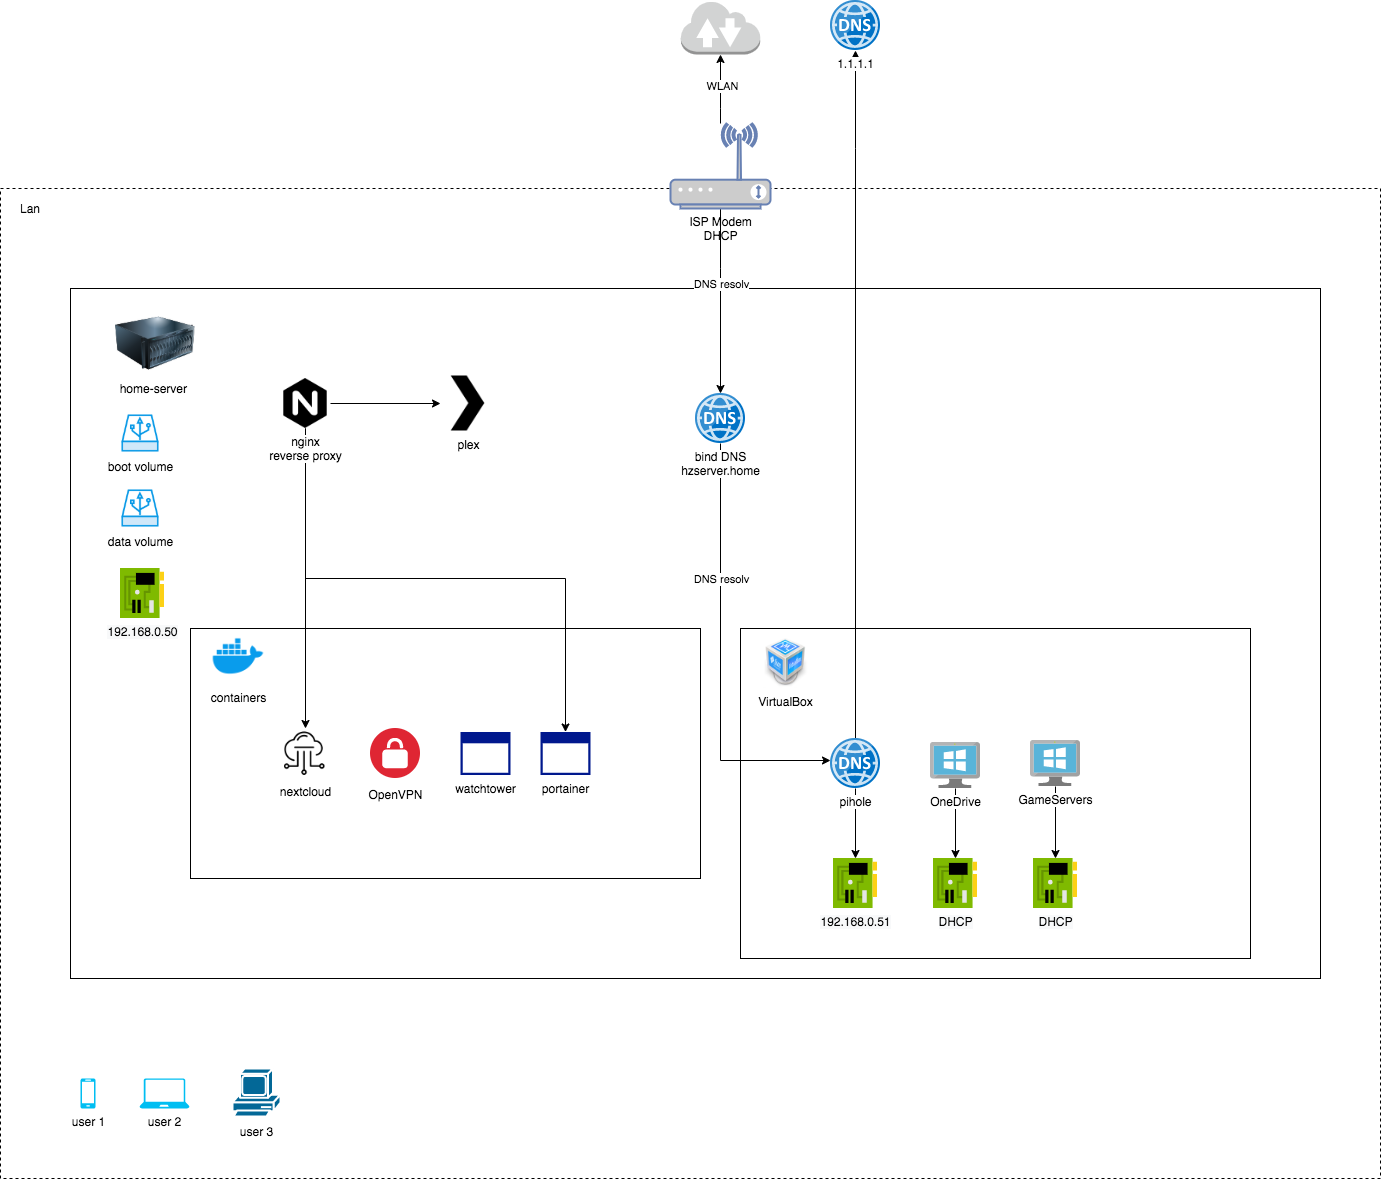
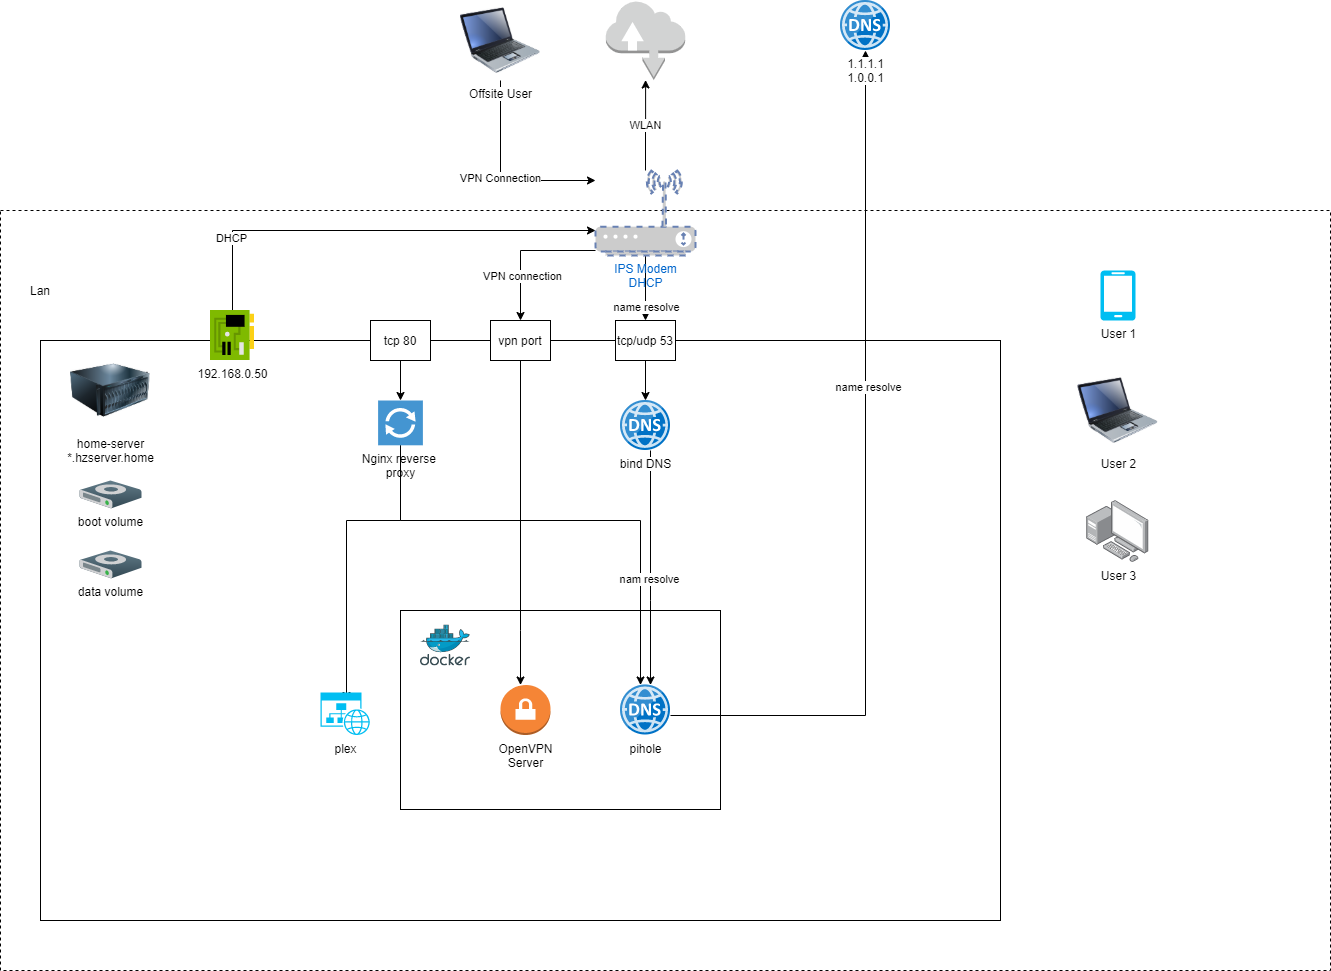
update home network

diff --git a/content/misc/home_lab.md b/content/misc/home_lab.md
@@ -60,11 +60,11 @@ Watchtower automatically updates all docker containers to their latest images.
 
 An admin web UI to see and mamange running containers. 
 
-# VirtualBox
-
 ## Pihole
 
-To filter out adds, I run a pihole services in VirtualBox. It uses bridge network adapter so it gets its own IP address. This is to avoid conflict with bind DNS running on host. 
+DNS based ad blocker
+
+# VirtualBox
 
 ## OneDrive
 
@@ -73,6 +73,7 @@ I have a windows machine running in VirtualBox. It syncs my Onedrive and share t
 ## GameServers
 
 I also have some VMs running as game servers. 
+
 
 # DNS resolution
 
